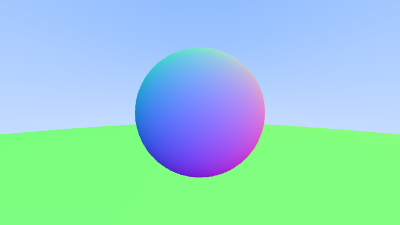
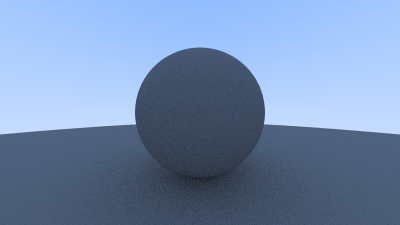
9.1: simple diffuse material

diff --git a/src/raytracer.py b/src/raytracer.py
@@ -132,6 +132,13 @@ def _sample_square(key: KeyArray) -> Vector:
     return jax.random.uniform(key=key, shape=(2,), minval=-0.5, maxval=0.5)
 
 
+class MarchingStep(eqx.Module):
+    ray: Ray
+    intensity: float
+    rec: HitRecord
+    key: KeyArray
+
+
 class Camera(eqx.Module):
     center: Point
     image_width: int
@@ -142,9 +149,9 @@ class Camera(eqx.Module):
 
     def render(self, scene: Scene, seed: int = 0) -> np.ndarray:
         def sample_pixel(i: ScalarLike, j: ScalarLike, key: KeyArray) -> Color:
-            keyr, keyc = jax.random.split(key)
-            r = self._get_ray(i, j, keyr)
-            return self._ray_color(r, scene, keyc)
+            key, subkey = jax.random.split(key)
+            r = self._get_ray(i, j, key)
+            return self._ray_color(r, scene, subkey)
 
         def compute_pixel(i: ScalarLike, j: ScalarLike, *, key: KeyArray) -> Color:
             keys = jax.random.split(key, self.samples_per_pixel)
@@ -158,10 +165,12 @@ class Camera(eqx.Module):
         key = jax.random.key(seed)
         image_shape = (self.image_height, self.image_width)
         image = np.zeros((*image_shape, 3))
-        key = jax.random.split(key, image_shape)
+        keys = jax.random.split(key, image_shape)
         for j in tqdm(range(self.image_height)):
             for i in range(self.image_width):
-                image[j, i, :] = jit_compute_pixel(i, j, key=key[j, i])
+                image[j, i, :] = jit_compute_pixel(i, j, key=keys[j, i])
+
+        image = np.clip(image, 0.0, 0.999)
 
         return image
 
@@ -187,19 +196,30 @@ class Camera(eqx.Module):
         ray_direction = pixel_sample - self.center
         return Ray(self.center, ray_direction)
 
-    USE A WHULE LOOP HERE!
     def _ray_color(self, r: Ray, scene: Scene, key: KeyArray) -> Color:
-        rec = scene.hit(r, Interval(0.0, jnp.inf))
+        def is_hit(step: MarchingStep) -> Bool:
+            return Interval(0.0, jnp.inf).contains(step.rec.t)
 
-        def hit():
-            key1, key2 = jax.random.split(key)
-            direction = random_on_hemisphere(rec.normal, key1)
-            return 0.5 * self._ray_color(Ray(rec.p, direction), scene, key2)
+        def march(step: MarchingStep) -> MarchingStep:
+            key, new_key = jax.random.split(step.key)
+            direction = random_on_hemisphere(step.rec.normal, key)
+            new_ray = Ray(step.rec.p, direction)
+            new_hit = scene.hit(new_ray, Interval(0.0, jnp.inf))
+            new_intensity = step.intensity * 0.5
+            return MarchingStep(new_ray, new_intensity, new_hit, new_key)
 
-        def nohit():
-            unit_direction = unit_vector(r.direction)
-            a = 0.5 * (unit_direction[1] + 1)
-            return (1 - a) * color(1.0, 1.0, 1.0) + a * color(0.5, 0.7, 1.0)
+        # March until no object is hit
+        last_step = jax.lax.while_loop(
+            is_hit,
+            march,
+            MarchingStep(
+                ray=r, intensity=1.0, rec=scene.hit(r, Interval(0.0, jnp.inf)), key=key
+            ),
+        )
 
-        is_hit = Interval(0.0, jnp.inf).contains(rec.t)
-        return jax.lax.cond(is_hit, hit, nohit)
+        # Hit the sky
+        unit_direction = unit_vector(last_step.ray.direction)
+        a = 0.5 * (unit_direction[1] + 1)
+        return last_step.intensity * (
+            (1 - a) * color(1.0, 1.0, 1.0) + a * color(0.5, 0.7, 1.0)
+        )

diff --git a/main.py b/main.py
@@ -16,11 +16,12 @@ def main():
         image_width=400,
         image_height=225,
         focal_length=1.0,
-        samples_per_pixel=10,
+        samples_per_pixel=100,
         sensor_height=2.0,
     )
     image = camera.render(scene)
 
+    print(np.max(image), np.min(image))
     image = Image.fromarray(np.uint8(255 * image), mode="RGB")
     image.save("rendering.png")
     image.show()
